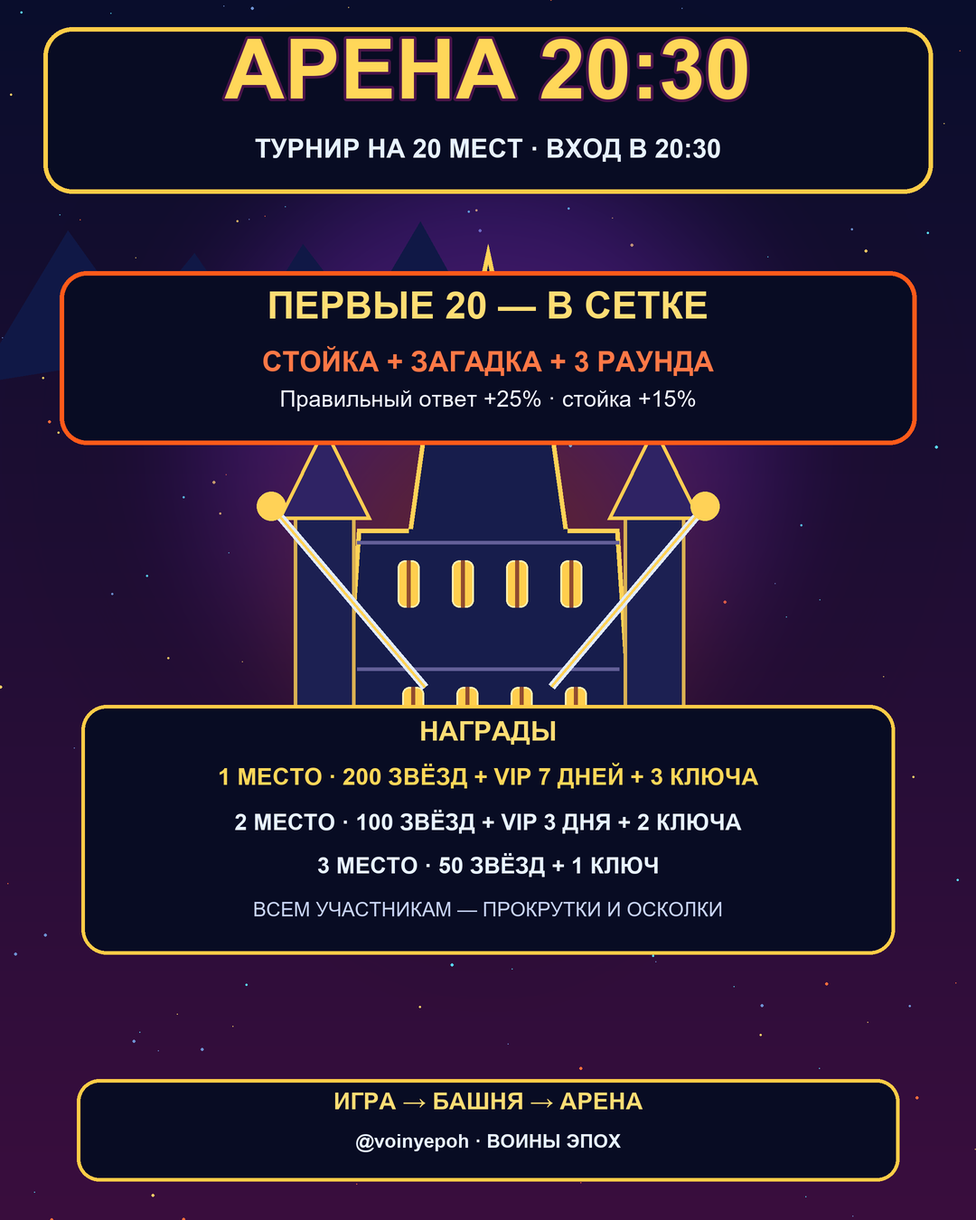
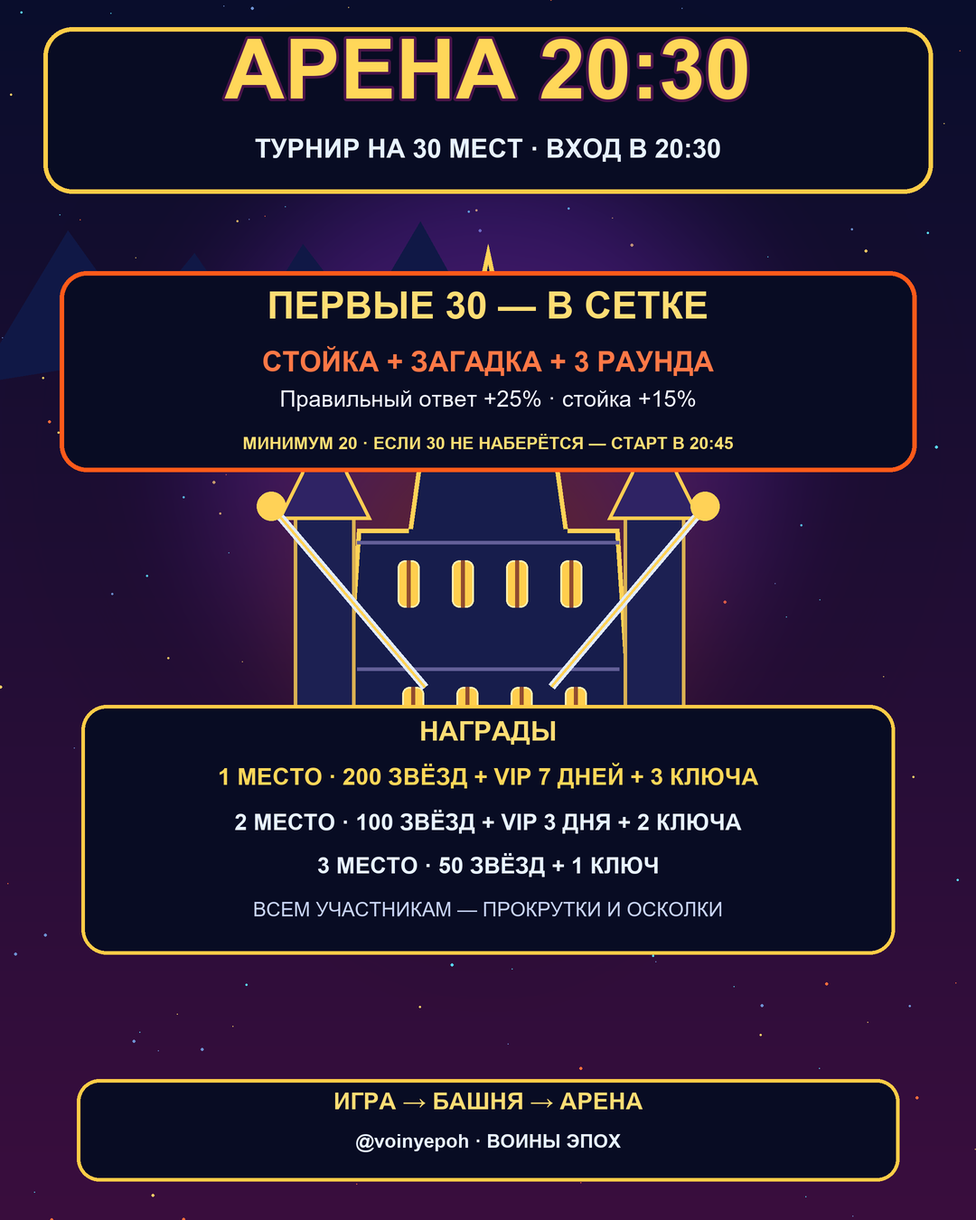
feat(arena): 30 seats, 20-player minimum, no auto posts on 25.11

Changed region(s): [[0.0611, 0.3422, 0.9472, 0.4044], [0.4583, 0.2489, 0.4889, 0.28]]

diff --git a/server/worker.js b/server/worker.js
@@ -2625,13 +2625,13 @@ async function towerTourReady(env,me){
   return {ok:1,id,ready:1};
 }
 /* ===================== ⚔ АРЕНА 20:30 =====================
-   Вечерний турнир на 20 мест: play-in, сетка на вылет, 3 раунда в бою.
+   Вечерний турнир на 30 мест (минимум 20): play-in, сетка на вылет, 3 раунда в бою.
    В каждом бою игрок выбирает стойку и отвечает на загадку — это даёт бонус к силе. */
 const ARN={
   id:"arena-20261125",
   open:Date.UTC(2026,10,25,17,30),      // 20:30 Minsk
   regClose:Date.UTC(2026,10,25,17,45),  // 20:45 Minsk
-  max:20,gap:45e3,len:7*60e3,
+  max:30,min:20,gap:45e3,len:7*60e3,
   prizes:[
     {p:1,st:200,vip:7,keys:3,txt:"200 ⭐ + VIP 7 дней + 3 ключа + титул и рамка «Чемпион Арены» + 30 🎴"},
     {p:2,st:100,vip:3,keys:2,txt:"100 ⭐ + VIP 3 дня + 2 ключа + 25 🎴"},
@@ -2655,7 +2655,7 @@ const ARN_PUZZLES=[
   {q:"Сколько карт входит в отряд для забега по Башне?",o:["1","2","3","5"],a:2},
   {q:"Что больше: 2¹⁰ или 1000?",o:["2¹⁰","1000","Равны","Нельзя сравнить"],a:0},
   {q:"Сколько сторон у шестиугольника?",o:["5","6","7","8"],a:1},
-  {q:"В турнире 20 игроков. В play-in играют 8. Сколько сразу проходят во второй раунд?",o:["4","8","12","16"],a:2}
+  {q:"В турнире 30 игроков. Двое сразу проходят дальше, остальные играют play-in парами. Сколько матчей в play-in?",o:["12","13","14","15"],a:2}
 ];
 const ARN_STANCES=["Натиск","Стена","Обман"];
 function arnKey(){return "tower_arena:"+ARN.id}
@@ -2786,7 +2786,15 @@ async function arnAdvance(env,A,now){
   A.players=A.players||[];A.matches=A.matches||{};
   if(A.phase==="wait"&&now>=ARN.open){A.phase="reg";A.t=now;changed=1}
   if(A.phase==="reg"&&(A.players.length>=ARN.max||now>=ARN.regClose)){
-    if(A.players.length<2){A.phase="done";A.paid=1;A.t=now;changed=1;return changed}
+    if(A.players.length<ARN.min){
+      A.phase="failed";A.t=now;changed=1;
+      if(!A.failedNotified){
+        A.failedNotified=1;
+        for(const p of A.players)try{await notify(env,p.uid,"⚔ Арена не состоялась: собралось "+A.players.length+" участников, а нужно минимум 20.\n\nВзнос не списывался, награды не выдаются. Ждём тебя в следующем турнире!","⚔ Башня",PAGE+"?tower=1&arena=1")}catch(e){}
+        for(const a of ADMINS)try{await notify(env,a,"⚔ Арена 20:30 не состоялась: "+A.players.length+" участников, минимум 20.","⚔ Арена",PAGE+"?tower=1&arena=1")}catch(e){}
+      }
+      return changed;
+    }
     arnBracket(A,now);changed=1
   }
   if(A.phase==="run"){
@@ -2815,7 +2823,7 @@ async function arnGet(env,me){
   const online=await cached("arn_online",20e3,async()=>((await env.DB.prepare("SELECT COUNT(*) AS n FROM users WHERE seen>?").bind(Date.now()-5*60e3).first())||{}).n||0);
   const joined=(A.players||[]).some(p=>p.uid===me.id);
   const myPlayer=(A.players||[]).find(p=>p.uid===me.id)||null;
-  return {phase:A.phase,now,open:ARN.open,regClose:ARN.regClose,max:ARN.max,count:(A.players||[]).length,online,
+  return {phase:A.phase,now,open:ARN.open,regClose:ARN.regClose,max:ARN.max,min:ARN.min,count:(A.players||[]).length,online,
     players:(A.players||[]).map(p=>({uid:p.uid,name:p.name,pow:arnPow(p),joined:p.joined})),
     matches:pubM,round:A.round||"",champion:A.champion||null,places:A.places||null,paid:!!A.paid,
     me:{joined,uid:me.id,pow:myPlayer?arnPow(myPlayer):0,out:!!((A.out||{})[me.id]),place:(A.places||{})[me.id]||0,active:mine?mine.id:null,puzzle:mine?{q:(ARN_PUZZLES[mine.puzzle]||{}).q,o:(ARN_PUZZLES[mine.puzzle]||{}).o}:null,
@@ -2838,7 +2846,7 @@ async function arnJoin(env,me){
     A.players=A.players||[];
     if(A.players.some(p=>p.uid===me.id))return {ok:1,already:1,count:A.players.length,phase:A.phase};
     if(A.phase!=="reg")fail("Набор в Арену уже закрыт");
-    if(A.players.length>=ARN.max)fail("Все 20 мест заняты");
+    if(A.players.length>=ARN.max)fail("Все 30 мест заняты");
     A.players.push({uid:me.id,name,squad,joined:now});
     A.t=now;
     await arnAdvance(env,A,now);
@@ -2848,7 +2856,7 @@ async function arnJoin(env,me){
     const chk=await kvGet(env,arnKey());
     if(chk&&(chk.players||[]).some(p=>p.uid===me.id)){
       const count=(chk.players||[]).length,phase=chk.phase;
-      try{await notify(env,me.id,"⚔ Ты в Арене! Место "+count+" из 20.\n\n"+(phase==="reg"?"Ждём остальных. Набор закроется в 20:45 или когда заполнятся все 20 мест.":"Сетка уже собрана — твой бой скоро начнётся.")+"\n\nОткрой «Башня → Арена».","⚔ В Арену",PAGE+"?tower=1&arena=1")}catch(e){}
+      try{await notify(env,me.id,"⚔ Ты в Арене! Место "+count+" из 30.\n\n"+(phase==="reg"?"Ждём остальных. Набор закроется в 20:45 или когда заполнятся все 30 мест. Минимум для старта — 20 участников.":"Сетка уже собрана — твой бой скоро начнётся.")+"\n\nОткрой «Башня → Арена».","⚔ В Арену",PAGE+"?tower=1&arena=1")}catch(e){}
       return {ok:1,count,phase};
     }
   }
@@ -2920,19 +2928,20 @@ async function arnTick(env){
   }finally{arnBusy=0}
 }
 function arnPosts(){return [
-  {id:"arena-announce-20261125",at:Date.UTC(2026,10,25,17,15),window:2*36e5,photo:"event-assets/arena-2026-11-25.png",
+  {id:"arena-announce-20261125",on:false,at:Date.UTC(2026,10,25,17,15),window:2*36e5,photo:"event-assets/arena-2026-11-25.png",
    btn:"⚔ Войти в Арену",url:PAGE+"?tower=1&arena=1",
-   chan:"⚔ СЕГОДНЯ В 20:30 — АРЕНА НА 20 МЕСТ!\n\nВ Башне откроется вечерний турнир. Первые 20, кто нажмёт «Участвовать», попадут в сетку.\n\nКаждый бой — 3 раунда. Перед боем выбери стойку (Натиск / Стена / Обман) и ответь на загадку: правильный ответ даёт +25% к силе, выигранная стойка — ещё +15%. Сила карт важна, но хитрость решает.\n\n🥇 200 ⭐ + VIP 7 дней + 3 ключа + титул «Чемпион Арены»\n🥈 100 ⭐ + VIP 3 дня + 2 ключа\n🥉 50 ⭐ + 1 ключ\n🎴 Все участники: 15 прокруток и осколки\n\n⏰ Набор: 20:30–20:45. Заходи в игру → Башня → Арена!",
-   dm:"⚔ Сегодня в 20:30 — АРЕНА на 20 мест!\n\nПервые 20, кто нажмёт «Участвовать», попадут в турнир. В каждом бою: стойка + загадка + 3 раунда. Правильный ответ даёт +25% к силе, стойка — ещё +15%.\n\n🥇 200 ⭐ + VIP 7 дней + 3 ключа\n🥈 100 ⭐ + VIP 3 дня + 2 ключа\n🥉 50 ⭐ + 1 ключ\n🎴 Всем участникам — 15 прокруток и осколки.\n\nОткрой игру → Башня → Арена. Набор стартует в 20:30!"},
-  {id:"arena-open-20261125",at:Date.UTC(2026,10,25,17,30),window:18*60e3,photo:"event-assets/arena-2026-11-25.png",
+   chan:"⚔ СЕГОДНЯ В 20:30 — АРЕНА НА 30 МЕСТ!\n\nВ Башне откроется вечерний турнир. Первые 30, кто нажмёт «Участвовать», попадут в сетку.\n\nКаждый бой — 3 раунда. Перед боем выбери стойку (Натиск / Стена / Обман) и ответь на загадку: правильный ответ даёт +25% к силе, выигранная стойка — ещё +15%. Сила карт важна, но хитрость решает.\n\n🥇 200 ⭐ + VIP 7 дней + 3 ключа + титул «Чемпион Арены»\n🥈 100 ⭐ + VIP 3 дня + 2 ключа\n🥉 50 ⭐ + 1 ключ\n🎴 Все участники: 15 прокруток и осколки\n\n⏰ Набор: 20:30–20:45. Если 30 не наберётся — старт в 20:45 с теми, кто есть, но минимум 20 участников. Заходи в игру → Башня → Арена!",
+   dm:"⚔ Сегодня в 20:30 — АРЕНА на 30 мест!\n\nПервые 30, кто нажмёт «Участвовать», попадут в турнир. В каждом бою: стойка + загадка + 3 раунда. Правильный ответ даёт +25% к силе, стойка — ещё +15%.\n\n🥇 200 ⭐ + VIP 7 дней + 3 ключа\n🥈 100 ⭐ + VIP 3 дня + 2 ключа\n🥉 50 ⭐ + 1 ключ\n🎴 Всем участникам — 15 прокруток и осколки.\n\nОткрой игру → Башня → Арена. Набор стартует в 20:30! Минимум 20 участников."},
+  {id:"arena-open-20261125",on:false,at:Date.UTC(2026,10,25,17,30),window:18*60e3,photo:"event-assets/arena-2026-11-25.png",
    btn:"⚔ Участвовать",url:PAGE+"?tower=1&arena=1",
-   chan:"⚔ АРЕНА ОТКРЫТА! ПЕРВЫЕ 20 МЕСТ!\n\nЗайди в игру → Башня → Арена и жми «Участвовать». Набор закроется в 20:45 или когда закончатся места.\n\nВ бою: стойка + загадка + 3 раунда. Побеждает не только сильнейший, но и самый хитрый.\n\n🥇 200 ⭐ + VIP 7 дней + 3 ключа\n🥈 100 ⭐ + VIP 3 дня + 2 ключа\n🥉 50 ⭐ + 1 ключ\n🎴 Всем участникам — 15 прокруток и осколки."}
+   chan:"⚔ АРЕНА ОТКРЫТА! ПЕРВЫЕ 30 МЕСТ!\n\nЗайди в игру → Башня → Арена и жми «Участвовать». Набор закроется в 20:45 или когда закончатся места. Если 30 не наберётся — старт в 20:45 с теми, кто есть, но минимум 20 участников.\n\nВ бою: стойка + загадка + 3 раунда. Побеждает не только сильнейший, но и самый хитрый.\n\n🥇 200 ⭐ + VIP 7 дней + 3 ключа\n🥈 100 ⭐ + VIP 3 дня + 2 ключа\n🥉 50 ⭐ + 1 ключ\n🎴 Всем участникам — 15 прокруток и осколки."}
 ]}
 let arnPostBusy=0;
 async function arnPostsTick(env){
   if(arnPostBusy)return;
   const now=Date.now();
   for(const P of arnPosts()){
+    if(P.on===false)continue;
     if(now<P.at||now>P.at+P.window)continue;
     const st=await kvGet(env,"blast:"+P.id);
     if(st&&st.done&&st.ch)continue;
@@ -5460,15 +5469,6 @@ const CHAL_INVITE={id:"2026-11-25-invite",lot:1,multi:1,invite:1,needOpen:20,req
 const FRIEND_POST_PRIZES="🥇 700 ⭐ + VIP на 7 дней\n🥈 500 ⭐ + VIP на 7 дней\n🥉 300 ⭐ + VIP на 7 дней";
 const FRIEND_POST_HOW="Каждый новый друг по твоей ссылке = 1 билет. Друг должен открыть 20 карт и подписаться на канал @voinyepoh и чат @voinyepohchat. Накрутка и пустые аккаунты не засчитываются.";
 const FRIEND_CONTEST_POSTS=[
-  {id:"friend-ticket-20261125-09",at:Date.UTC(2026,10,25,6),window:2*36e5,photo:"event-assets/friend-ticket-2026-11-25.png",btn:"🎟 Участвовать",url:PAGE,
-    chan:"🎟 РОЗЫГРЫШ ЗА ДРУЗЕЙ — СТАРТ!\n\nС 08:00 сегодня до 22:00 завтра по Минску.\n\n"+FRIEND_POST_HOW+"\n\n"+FRIEND_POST_PRIZES+"\n\nТри разных победителя выбираются случайно по билетам. Участвовать можно уже с одним подтверждённым другом.\n\nПриглашай друзей и следи за билетами в игре!",
-    dm:"🎟 Стартовал розыгрыш за приглашённых друзей!\n\nДо 22:00 26 ноября по Минску каждый новый друг по твоей ссылке = 1 билет. Он должен открыть 20 карт и подписаться на @voinyepoh и @voinyepohchat.\n\n"+FRIEND_POST_PRIZES+"\n\nТри победителя выбираются случайно по билетам. Открой игру и смотри конкурс на главном экране."},
-  {id:"friend-ticket-20261125-14",at:Date.UTC(2026,10,25,11),window:2*36e5,photo:"event-assets/friend-ticket-2026-11-25.png",btn:"🎟 Мои билеты",url:PAGE,
-    chan:"🎟 РОЗЫГРЫШ ЗА ДРУЗЕЙ ИДЁТ!\n\nДо 22:00 завтра. "+FRIEND_POST_HOW+"\n\n"+FRIEND_POST_PRIZES+"\n\nКаждый друг = ещё один билет. Приглашай и проверяй свой счёт в игре!",
-    dm:"🎟 Напоминаем: розыгрыш за друзей идёт до 22:00 26 ноября!\n\nКаждый новый друг = 1 билет. Друг должен открыть 20 карт и подписаться на @voinyepoh и @voinyepohchat.\n\n"+FRIEND_POST_PRIZES+"\n\nОткрой игру → конкурс на главном экране."},
-  {id:"friend-ticket-20261125-20",at:Date.UTC(2026,10,25,17),window:2*36e5,photo:"event-assets/friend-ticket-2026-11-25.png",btn:"🎟 Мои билеты",url:PAGE,
-    chan:"🌙 ВЕЧЕРНИЙ ШАНС В РОЗЫГРЫШЕ ЗА ДРУЗЕЙ!\n\nДо 22:00 завтра. "+FRIEND_POST_HOW+"\n\n"+FRIEND_POST_PRIZES+"\n\nВечер — лучшее время звать друзей. Каждый друг = +1 билет!",
-    dm:"🌙 Вечерний шанс: розыгрыш за друзей идёт до 22:00 26 ноября!\n\nКаждый новый друг = 1 билет (20 карт + подписка на канал и чат).\n\n"+FRIEND_POST_PRIZES+"\n\nПроверь свои билеты в игре."},
   {id:"friend-ticket-20261126-09",at:Date.UTC(2026,10,26,6),window:2*36e5,photo:"event-assets/friend-ticket-2026-11-25.png",btn:"🎟 Участвовать",url:PAGE,
     chan:"🎟 ПОСЛЕДНИЙ ДЕНЬ РОЗЫГРЫША ЗА ДРУЗЕЙ!\n\nДо 22:00 сегодня. "+FRIEND_POST_HOW+"\n\n"+FRIEND_POST_PRIZES+"\n\nУспей пригласить друга — каждый даёт билет!",
     dm:"🎟 Последний день розыгрыша за друзей — до 22:00!\n\nКаждый новый друг = 1 билет (20 карт + подписка на канал и чат).\n\n"+FRIEND_POST_PRIZES+"\n\nОткрой игру и проверь свои билеты."},

diff --git a/server/server.js b/server/server.js
@@ -642,13 +642,13 @@ async function towerTourReady(env,me){
   return {ok:1,id,ready:1};
 }
 /* ===================== ⚔ АРЕНА 20:30 =====================
-   Вечерний турнир на 20 мест: play-in, сетка на вылет, 3 раунда в бою.
+   Вечерний турнир на 30 мест (минимум 20): play-in, сетка на вылет, 3 раунда в бою.
    В каждом бою игрок выбирает стойку и отвечает на загадку — это даёт бонус к силе. */
 const ARN={
   id:"arena-20261125",
   open:Date.UTC(2026,10,25,17,30),      // 20:30 Minsk
   regClose:Date.UTC(2026,10,25,17,45),  // 20:45 Minsk
-  max:20,gap:45e3,len:7*60e3,
+  max:30,min:20,gap:45e3,len:7*60e3,
   prizes:[
     {p:1,st:200,vip:7,keys:3,txt:"200 ⭐ + VIP 7 дней + 3 ключа + титул и рамка «Чемпион Арены» + 30 🎴"},
     {p:2,st:100,vip:3,keys:2,txt:"100 ⭐ + VIP 3 дня + 2 ключа + 25 🎴"},
@@ -672,7 +672,7 @@ const ARN_PUZZLES=[
   {q:"Сколько карт входит в отряд для забега по Башне?",o:["1","2","3","5"],a:2},
   {q:"Что больше: 2¹⁰ или 1000?",o:["2¹⁰","1000","Равны","Нельзя сравнить"],a:0},
   {q:"Сколько сторон у шестиугольника?",o:["5","6","7","8"],a:1},
-  {q:"В турнире 20 игроков. В play-in играют 8. Сколько сразу проходят во второй раунд?",o:["4","8","12","16"],a:2}
+  {q:"В турнире 30 игроков. Двое сразу проходят дальше, остальные играют play-in парами. Сколько матчей в play-in?",o:["12","13","14","15"],a:2}
 ];
 const ARN_STANCES=["Натиск","Стена","Обман"];
 function arnKey(){return "tower_arena:"+ARN.id}
@@ -803,7 +803,15 @@ async function arnAdvance(env,A,now){
   A.players=A.players||[];A.matches=A.matches||{};
   if(A.phase==="wait"&&now>=ARN.open){A.phase="reg";A.t=now;changed=1}
   if(A.phase==="reg"&&(A.players.length>=ARN.max||now>=ARN.regClose)){
-    if(A.players.length<2){A.phase="done";A.paid=1;A.t=now;changed=1;return changed}
+    if(A.players.length<ARN.min){
+      A.phase="failed";A.t=now;changed=1;
+      if(!A.failedNotified){
+        A.failedNotified=1;
+        for(const p of A.players)try{await notify(env,p.uid,"⚔ Арена не состоялась: собралось "+A.players.length+" участников, а нужно минимум 20.\n\nВзнос не списывался, награды не выдаются. Ждём тебя в следующем турнире!","⚔ Башня",PAGE+"?tower=1&arena=1")}catch(e){}
+        for(const a of ADMINS)try{await notify(env,a,"⚔ Арена 20:30 не состоялась: "+A.players.length+" участников, минимум 20.","⚔ Арена",PAGE+"?tower=1&arena=1")}catch(e){}
+      }
+      return changed;
+    }
     arnBracket(A,now);changed=1
   }
   if(A.phase==="run"){
@@ -832,7 +840,7 @@ async function arnGet(env,me){
   const online=await cached("arn_online",20e3,async()=>((await env.DB.prepare("SELECT COUNT(*) AS n FROM users WHERE seen>?").bind(Date.now()-5*60e3).first())||{}).n||0);
   const joined=(A.players||[]).some(p=>p.uid===me.id);
   const myPlayer=(A.players||[]).find(p=>p.uid===me.id)||null;
-  return {phase:A.phase,now,open:ARN.open,regClose:ARN.regClose,max:ARN.max,count:(A.players||[]).length,online,
+  return {phase:A.phase,now,open:ARN.open,regClose:ARN.regClose,max:ARN.max,min:ARN.min,count:(A.players||[]).length,online,
     players:(A.players||[]).map(p=>({uid:p.uid,name:p.name,pow:arnPow(p),joined:p.joined})),
     matches:pubM,round:A.round||"",champion:A.champion||null,places:A.places||null,paid:!!A.paid,
     me:{joined,uid:me.id,pow:myPlayer?arnPow(myPlayer):0,out:!!((A.out||{})[me.id]),place:(A.places||{})[me.id]||0,active:mine?mine.id:null,puzzle:mine?{q:(ARN_PUZZLES[mine.puzzle]||{}).q,o:(ARN_PUZZLES[mine.puzzle]||{}).o}:null,
@@ -855,7 +863,7 @@ async function arnJoin(env,me){
     A.players=A.players||[];
     if(A.players.some(p=>p.uid===me.id))return {ok:1,already:1,count:A.players.length,phase:A.phase};
     if(A.phase!=="reg")fail("Набор в Арену уже закрыт");
-    if(A.players.length>=ARN.max)fail("Все 20 мест заняты");
+    if(A.players.length>=ARN.max)fail("Все 30 мест заняты");
     A.players.push({uid:me.id,name,squad,joined:now});
     A.t=now;
     await arnAdvance(env,A,now);
@@ -865,7 +873,7 @@ async function arnJoin(env,me){
     const chk=await kvGet(env,arnKey());
     if(chk&&(chk.players||[]).some(p=>p.uid===me.id)){
       const count=(chk.players||[]).length,phase=chk.phase;
-      try{await notify(env,me.id,"⚔ Ты в Арене! Место "+count+" из 20.\n\n"+(phase==="reg"?"Ждём остальных. Набор закроется в 20:45 или когда заполнятся все 20 мест.":"Сетка уже собрана — твой бой скоро начнётся.")+"\n\nОткрой «Башня → Арена».","⚔ В Арену",PAGE+"?tower=1&arena=1")}catch(e){}
+      try{await notify(env,me.id,"⚔ Ты в Арене! Место "+count+" из 30.\n\n"+(phase==="reg"?"Ждём остальных. Набор закроется в 20:45 или когда заполнятся все 30 мест. Минимум для старта — 20 участников.":"Сетка уже собрана — твой бой скоро начнётся.")+"\n\nОткрой «Башня → Арена».","⚔ В Арену",PAGE+"?tower=1&arena=1")}catch(e){}
       return {ok:1,count,phase};
     }
   }
@@ -937,19 +945,20 @@ async function arnTick(env){
   }finally{arnBusy=0}
 }
 function arnPosts(){return [
-  {id:"arena-announce-20261125",at:Date.UTC(2026,10,25,17,15),window:2*36e5,photo:"event-assets/arena-2026-11-25.png",
+  {id:"arena-announce-20261125",on:false,at:Date.UTC(2026,10,25,17,15),window:2*36e5,photo:"event-assets/arena-2026-11-25.png",
    btn:"⚔ Войти в Арену",url:PAGE+"?tower=1&arena=1",
-   chan:"⚔ СЕГОДНЯ В 20:30 — АРЕНА НА 20 МЕСТ!\n\nВ Башне откроется вечерний турнир. Первые 20, кто нажмёт «Участвовать», попадут в сетку.\n\nКаждый бой — 3 раунда. Перед боем выбери стойку (Натиск / Стена / Обман) и ответь на загадку: правильный ответ даёт +25% к силе, выигранная стойка — ещё +15%. Сила карт важна, но хитрость решает.\n\n🥇 200 ⭐ + VIP 7 дней + 3 ключа + титул «Чемпион Арены»\n🥈 100 ⭐ + VIP 3 дня + 2 ключа\n🥉 50 ⭐ + 1 ключ\n🎴 Все участники: 15 прокруток и осколки\n\n⏰ Набор: 20:30–20:45. Заходи в игру → Башня → Арена!",
-   dm:"⚔ Сегодня в 20:30 — АРЕНА на 20 мест!\n\nПервые 20, кто нажмёт «Участвовать», попадут в турнир. В каждом бою: стойка + загадка + 3 раунда. Правильный ответ даёт +25% к силе, стойка — ещё +15%.\n\n🥇 200 ⭐ + VIP 7 дней + 3 ключа\n🥈 100 ⭐ + VIP 3 дня + 2 ключа\n🥉 50 ⭐ + 1 ключ\n🎴 Всем участникам — 15 прокруток и осколки.\n\nОткрой игру → Башня → Арена. Набор стартует в 20:30!"},
-  {id:"arena-open-20261125",at:Date.UTC(2026,10,25,17,30),window:18*60e3,photo:"event-assets/arena-2026-11-25.png",
+   chan:"⚔ СЕГОДНЯ В 20:30 — АРЕНА НА 30 МЕСТ!\n\nВ Башне откроется вечерний турнир. Первые 30, кто нажмёт «Участвовать», попадут в сетку.\n\nКаждый бой — 3 раунда. Перед боем выбери стойку (Натиск / Стена / Обман) и ответь на загадку: правильный ответ даёт +25% к силе, выигранная стойка — ещё +15%. Сила карт важна, но хитрость решает.\n\n🥇 200 ⭐ + VIP 7 дней + 3 ключа + титул «Чемпион Арены»\n🥈 100 ⭐ + VIP 3 дня + 2 ключа\n🥉 50 ⭐ + 1 ключ\n🎴 Все участники: 15 прокруток и осколки\n\n⏰ Набор: 20:30–20:45. Если 30 не наберётся — старт в 20:45 с теми, кто есть, но минимум 20 участников. Заходи в игру → Башня → Арена!",
+   dm:"⚔ Сегодня в 20:30 — АРЕНА на 30 мест!\n\nПервые 30, кто нажмёт «Участвовать», попадут в турнир. В каждом бою: стойка + загадка + 3 раунда. Правильный ответ даёт +25% к силе, стойка — ещё +15%.\n\n🥇 200 ⭐ + VIP 7 дней + 3 ключа\n🥈 100 ⭐ + VIP 3 дня + 2 ключа\n🥉 50 ⭐ + 1 ключ\n🎴 Всем участникам — 15 прокруток и осколки.\n\nОткрой игру → Башня → Арена. Набор стартует в 20:30! Минимум 20 участников."},
+  {id:"arena-open-20261125",on:false,at:Date.UTC(2026,10,25,17,30),window:18*60e3,photo:"event-assets/arena-2026-11-25.png",
    btn:"⚔ Участвовать",url:PAGE+"?tower=1&arena=1",
-   chan:"⚔ АРЕНА ОТКРЫТА! ПЕРВЫЕ 20 МЕСТ!\n\nЗайди в игру → Башня → Арена и жми «Участвовать». Набор закроется в 20:45 или когда закончатся места.\n\nВ бою: стойка + загадка + 3 раунда. Побеждает не только сильнейший, но и самый хитрый.\n\n🥇 200 ⭐ + VIP 7 дней + 3 ключа\n🥈 100 ⭐ + VIP 3 дня + 2 ключа\n🥉 50 ⭐ + 1 ключ\n🎴 Всем участникам — 15 прокруток и осколки."}
+   chan:"⚔ АРЕНА ОТКРЫТА! ПЕРВЫЕ 30 МЕСТ!\n\nЗайди в игру → Башня → Арена и жми «Участвовать». Набор закроется в 20:45 или когда закончатся места. Если 30 не наберётся — старт в 20:45 с теми, кто есть, но минимум 20 участников.\n\nВ бою: стойка + загадка + 3 раунда. Побеждает не только сильнейший, но и самый хитрый.\n\n🥇 200 ⭐ + VIP 7 дней + 3 ключа\n🥈 100 ⭐ + VIP 3 дня + 2 ключа\n🥉 50 ⭐ + 1 ключ\n🎴 Всем участникам — 15 прокруток и осколки."}
 ]}
 let arnPostBusy=0;
 async function arnPostsTick(env){
   if(arnPostBusy)return;
   const now=Date.now();
   for(const P of arnPosts()){
+    if(P.on===false)continue;
     if(now<P.at||now>P.at+P.window)continue;
     const st=await kvGet(env,"blast:"+P.id);
     if(st&&st.done&&st.ch)continue;
@@ -3477,15 +3486,6 @@ const CHAL_INVITE={id:"2026-11-25-invite",lot:1,multi:1,invite:1,needOpen:20,req
 const FRIEND_POST_PRIZES="🥇 700 ⭐ + VIP на 7 дней\n🥈 500 ⭐ + VIP на 7 дней\n🥉 300 ⭐ + VIP на 7 дней";
 const FRIEND_POST_HOW="Каждый новый друг по твоей ссылке = 1 билет. Друг должен открыть 20 карт и подписаться на канал @voinyepoh и чат @voinyepohchat. Накрутка и пустые аккаунты не засчитываются.";
 const FRIEND_CONTEST_POSTS=[
-  {id:"friend-ticket-20261125-09",at:Date.UTC(2026,10,25,6),window:2*36e5,photo:"event-assets/friend-ticket-2026-11-25.png",btn:"🎟 Участвовать",url:PAGE,
-    chan:"🎟 РОЗЫГРЫШ ЗА ДРУЗЕЙ — СТАРТ!\n\nС 08:00 сегодня до 22:00 завтра по Минску.\n\n"+FRIEND_POST_HOW+"\n\n"+FRIEND_POST_PRIZES+"\n\nТри разных победителя выбираются случайно по билетам. Участвовать можно уже с одним подтверждённым другом.\n\nПриглашай друзей и следи за билетами в игре!",
-    dm:"🎟 Стартовал розыгрыш за приглашённых друзей!\n\nДо 22:00 26 ноября по Минску каждый новый друг по твоей ссылке = 1 билет. Он должен открыть 20 карт и подписаться на @voinyepoh и @voinyepohchat.\n\n"+FRIEND_POST_PRIZES+"\n\nТри победителя выбираются случайно по билетам. Открой игру и смотри конкурс на главном экране."},
-  {id:"friend-ticket-20261125-14",at:Date.UTC(2026,10,25,11),window:2*36e5,photo:"event-assets/friend-ticket-2026-11-25.png",btn:"🎟 Мои билеты",url:PAGE,
-    chan:"🎟 РОЗЫГРЫШ ЗА ДРУЗЕЙ ИДЁТ!\n\nДо 22:00 завтра. "+FRIEND_POST_HOW+"\n\n"+FRIEND_POST_PRIZES+"\n\nКаждый друг = ещё один билет. Приглашай и проверяй свой счёт в игре!",
-    dm:"🎟 Напоминаем: розыгрыш за друзей идёт до 22:00 26 ноября!\n\nКаждый новый друг = 1 билет. Друг должен открыть 20 карт и подписаться на @voinyepoh и @voinyepohchat.\n\n"+FRIEND_POST_PRIZES+"\n\nОткрой игру → конкурс на главном экране."},
-  {id:"friend-ticket-20261125-20",at:Date.UTC(2026,10,25,17),window:2*36e5,photo:"event-assets/friend-ticket-2026-11-25.png",btn:"🎟 Мои билеты",url:PAGE,
-    chan:"🌙 ВЕЧЕРНИЙ ШАНС В РОЗЫГРЫШЕ ЗА ДРУЗЕЙ!\n\nДо 22:00 завтра. "+FRIEND_POST_HOW+"\n\n"+FRIEND_POST_PRIZES+"\n\nВечер — лучшее время звать друзей. Каждый друг = +1 билет!",
-    dm:"🌙 Вечерний шанс: розыгрыш за друзей идёт до 22:00 26 ноября!\n\nКаждый новый друг = 1 билет (20 карт + подписка на канал и чат).\n\n"+FRIEND_POST_PRIZES+"\n\nПроверь свои билеты в игре."},
   {id:"friend-ticket-20261126-09",at:Date.UTC(2026,10,26,6),window:2*36e5,photo:"event-assets/friend-ticket-2026-11-25.png",btn:"🎟 Участвовать",url:PAGE,
     chan:"🎟 ПОСЛЕДНИЙ ДЕНЬ РОЗЫГРЫША ЗА ДРУЗЕЙ!\n\nДо 22:00 сегодня. "+FRIEND_POST_HOW+"\n\n"+FRIEND_POST_PRIZES+"\n\nУспей пригласить друга — каждый даёт билет!",
     dm:"🎟 Последний день розыгрыша за друзей — до 22:00!\n\nКаждый новый друг = 1 билет (20 карт + подписка на канал и чат).\n\n"+FRIEND_POST_PRIZES+"\n\nОткрой игру и проверь свои билеты."},

diff --git a/tower.js b/tower.js
@@ -467,25 +467,26 @@
   }
   function twArenaView(T) {
     if (!twArena) {
-      $("tw-body").innerHTML = '<div class="tw-arena-ban"><b>⚔ АРЕНА</b><small>Турнир на 20 мест</small></div><div class="tw-load">Загружаю…</div>';
+      $("tw-body").innerHTML = '<div class="tw-arena-ban"><b>⚔ АРЕНА</b><small>Турнир на 30 мест</small></div><div class="tw-load">Загружаю…</div>';
       twArenaLoad(); return;
     }
     const D = twArena, now = Date.now();
-    let h = '<div class="tw-arena-ban"><b>⚔ АРЕНА 20:30</b><small>Турнир на 20 мест · стойка + загадка + 3 раунда</small></div>';
+    let h = '<div class="tw-arena-ban"><b>⚔ АРЕНА 20:30</b><small>Турнир на 30 мест · стойка + загадка + 3 раунда</small></div>';
     if (D.phase === "wait") {
       h += '<div class="tw-arena-clock">' + twArenaClock(D.open - now) + '<small>ДО ОТКРЫТИЯ</small></div>' +
-        '<div class="tw-note">В 20:30 появятся 20 мест. Первые 20, кто нажмёт «Участвовать», попадут в сетку. Набор закроется в 20:45 или когда места закончатся.</div>' +
+        '<div class="tw-note">В 20:30 появятся 30 мест. Первые 30, кто нажмёт «Участвовать», попадут в сетку. Набор закроется в 20:45. Если 30 не наберётся — старт в 20:45 с теми, кто есть, но минимум 20 участников.</div>' +
         twArenaPrizes(D) + twArenaRules();
       $("tw-body").innerHTML = h; twArenaPoll(); return;
     }
     if (D.phase === "reg") {
       const left = Math.max(0, D.regClose - now), slots = Math.max(0, D.max - D.count);
       h += '<div class="tw-arena-clock">' + twArenaClock(left) + '<small>ДО ЗАКРЫТИЯ НАБОРА</small></div>' +
-        '<div class="tw-note">Свободно мест: <b style="color:#ffd60a">' + slots + '</b> из ' + D.max + ' · сейчас в игре: <b>' + D.online + '</b></div>';
+        '<div class="tw-note">Свободно мест: <b style="color:#ffd60a">' + slots + '</b> из ' + D.max + ' · уже в турнире: <b>' + D.count + '</b> · сейчас в игре: <b>' + D.online + '</b></div>' +
+        '<div class="tw-note">Минимум для старта — <b>' + (D.min || 20) + '</b> участников. Если 30 не наберётся, турнир начнётся в 20:45 с теми, кто есть.</div>';
       if (D.me.joined) {
         const me = (D.players || []).find(p => p.uid === D.me.uid) || {};
         h += '<div class="tw-arena-champ"><b>✅ Ты в турнире</b><small>Место ' + D.count + ' из ' + D.max + ' · сила отряда ' + (me.pow || 0) + '</small></div>' +
-          '<div class="tw-note">Ждём остальных. Когда наберётся 20 или в 20:45 — сетка соберётся автоматически, и твой бой начнётся.</div>';
+          '<div class="tw-note">Ждём остальных. Когда наберётся 30 или в 20:45 — сетка соберётся автоматически, и твой бой начнётся. Минимум 20 участников.</div>';
       } else {
         h += '<button type="button" class="tw-btn red" id="tw-arena-join"' + (slots <= 0 ? " disabled" : "") + '>⚔ Участвовать · осталось ' + slots + '</button>' +
           '<div class="tw-note">В турнир берутся 3 твои лучшие карты. Нужно минимум 3 карты в коллекции.</div>';
@@ -493,6 +494,13 @@
       h += twArenaPlayers(D) + twArenaPrizes(D) + twArenaRules();
       $("tw-body").innerHTML = h;
       if ($("tw-arena-join")) $("tw-arena-join").onclick = twArenaJoin;
+      twArenaPoll(); return;
+    }
+    if (D.phase === "failed") {
+      h += '<div class="tw-arena-champ"><b>⚔ Арена не состоялась</b><small>Собралось ' + D.count + ' участников, нужно минимум ' + (D.min || 20) + '.</small></div>' +
+        '<div class="tw-note">Взнос не списывался, награды не выдаются. Ждём тебя в следующем турнире!</div>' +
+        twArenaPlayers(D) + twArenaPrizes(D);
+      $("tw-body").innerHTML = h;
       twArenaPoll(); return;
     }
     if (D.champion) {

diff --git a/index.html b/index.html
@@ -1,6 +1,6 @@
 <!doctype html>
 <html lang="ru">
-<head><meta name="app-ver" content="7e5c65618e">
+<head><meta name="app-ver" content="d12cf290e9">
 <meta charset="utf-8">
 <meta http-equiv="Cache-Control" content="no-cache">
 <meta name="viewport" content="width=device-width,initial-scale=1,maximum-scale=1,user-scalable=no,viewport-fit=cover">
@@ -379,6 +379,6 @@
 <script src="gems.js?v=52383795"></script>
 <script src="community.js?v=a4aff505"></script>
 <script src="tower-rules.js?v=77aa32fa"></script>
-<script src="tower.js?v=3f927870"></script>
+<script src="tower.js?v=642be767"></script>
 </body>
 </html>

diff --git a/event-assets/draw_arena_poster.py b/event-assets/draw_arena_poster.py
@@ -50,12 +50,13 @@ regular = lambda n: ImageFont.truetype("C:/Windows/Fonts/arial.ttf", sc(n))
 
 d.rounded_rectangle((sc(48),sc(30),sc(1032),sc(214)), radius=sc(32), fill=(8,12,35,246), outline=(255,204,71,255), width=sc(5))
 d.text((sc(540),sc(43)),"АРЕНА 20:30",font=bold(92),fill=(255,215,89,255),anchor="mt",stroke_width=sc(3),stroke_fill=(74,20,74,255))
-d.text((sc(540),sc(153)),"ТУРНИР НА 20 МЕСТ · ВХОД В 20:30",font=bold(29),fill=(231,242,255,255),anchor="mt")
+d.text((sc(540),sc(153)),"ТУРНИР НА 30 МЕСТ · ВХОД В 20:30",font=bold(29),fill=(231,242,255,255),anchor="mt")
 
-d.rounded_rectangle((sc(66),sc(300),sc(1014),sc(492)), radius=sc(30), fill=(8,12,35,246), outline=(255,90,26,255), width=sc(5))
-d.text((sc(540),sc(322)),"ПЕРВЫЕ 20 — В СЕТКЕ",font=bold(42),fill=(255,221,116,255),anchor="mt")
+d.rounded_rectangle((sc(66),sc(300),sc(1014),sc(522)), radius=sc(30), fill=(8,12,35,246), outline=(255,90,26,255), width=sc(5))
+d.text((sc(540),sc(322)),"ПЕРВЫЕ 30 — В СЕТКЕ",font=bold(42),fill=(255,221,116,255),anchor="mt")
 d.text((sc(540),sc(383)),"СТОЙКА + ЗАГАДКА + 3 РАУНДА",font=bold(31),fill=(255,120,70,255),anchor="mt")
 d.text((sc(540),sc(432)),"Правильный ответ +25% · стойка +15%",font=regular(25),fill=(240,244,255,255),anchor="mt")
+d.text((sc(540),sc(480)),"МИНИМУМ 20 · ЕСЛИ 30 НЕ НАБЕРЁТСЯ — СТАРТ В 20:45",font=bold(19),fill=(255,221,116,255),anchor="mt")
 
 d.rounded_rectangle((sc(90),sc(780),sc(990),sc(1056)), radius=sc(28), fill=(8,12,35,248), outline=(255,204,71,255), width=sc(4))
 d.text((sc(540),sc(798)),"НАГРАДЫ",font=bold(30),fill=(255,221,116,255),anchor="mt")
